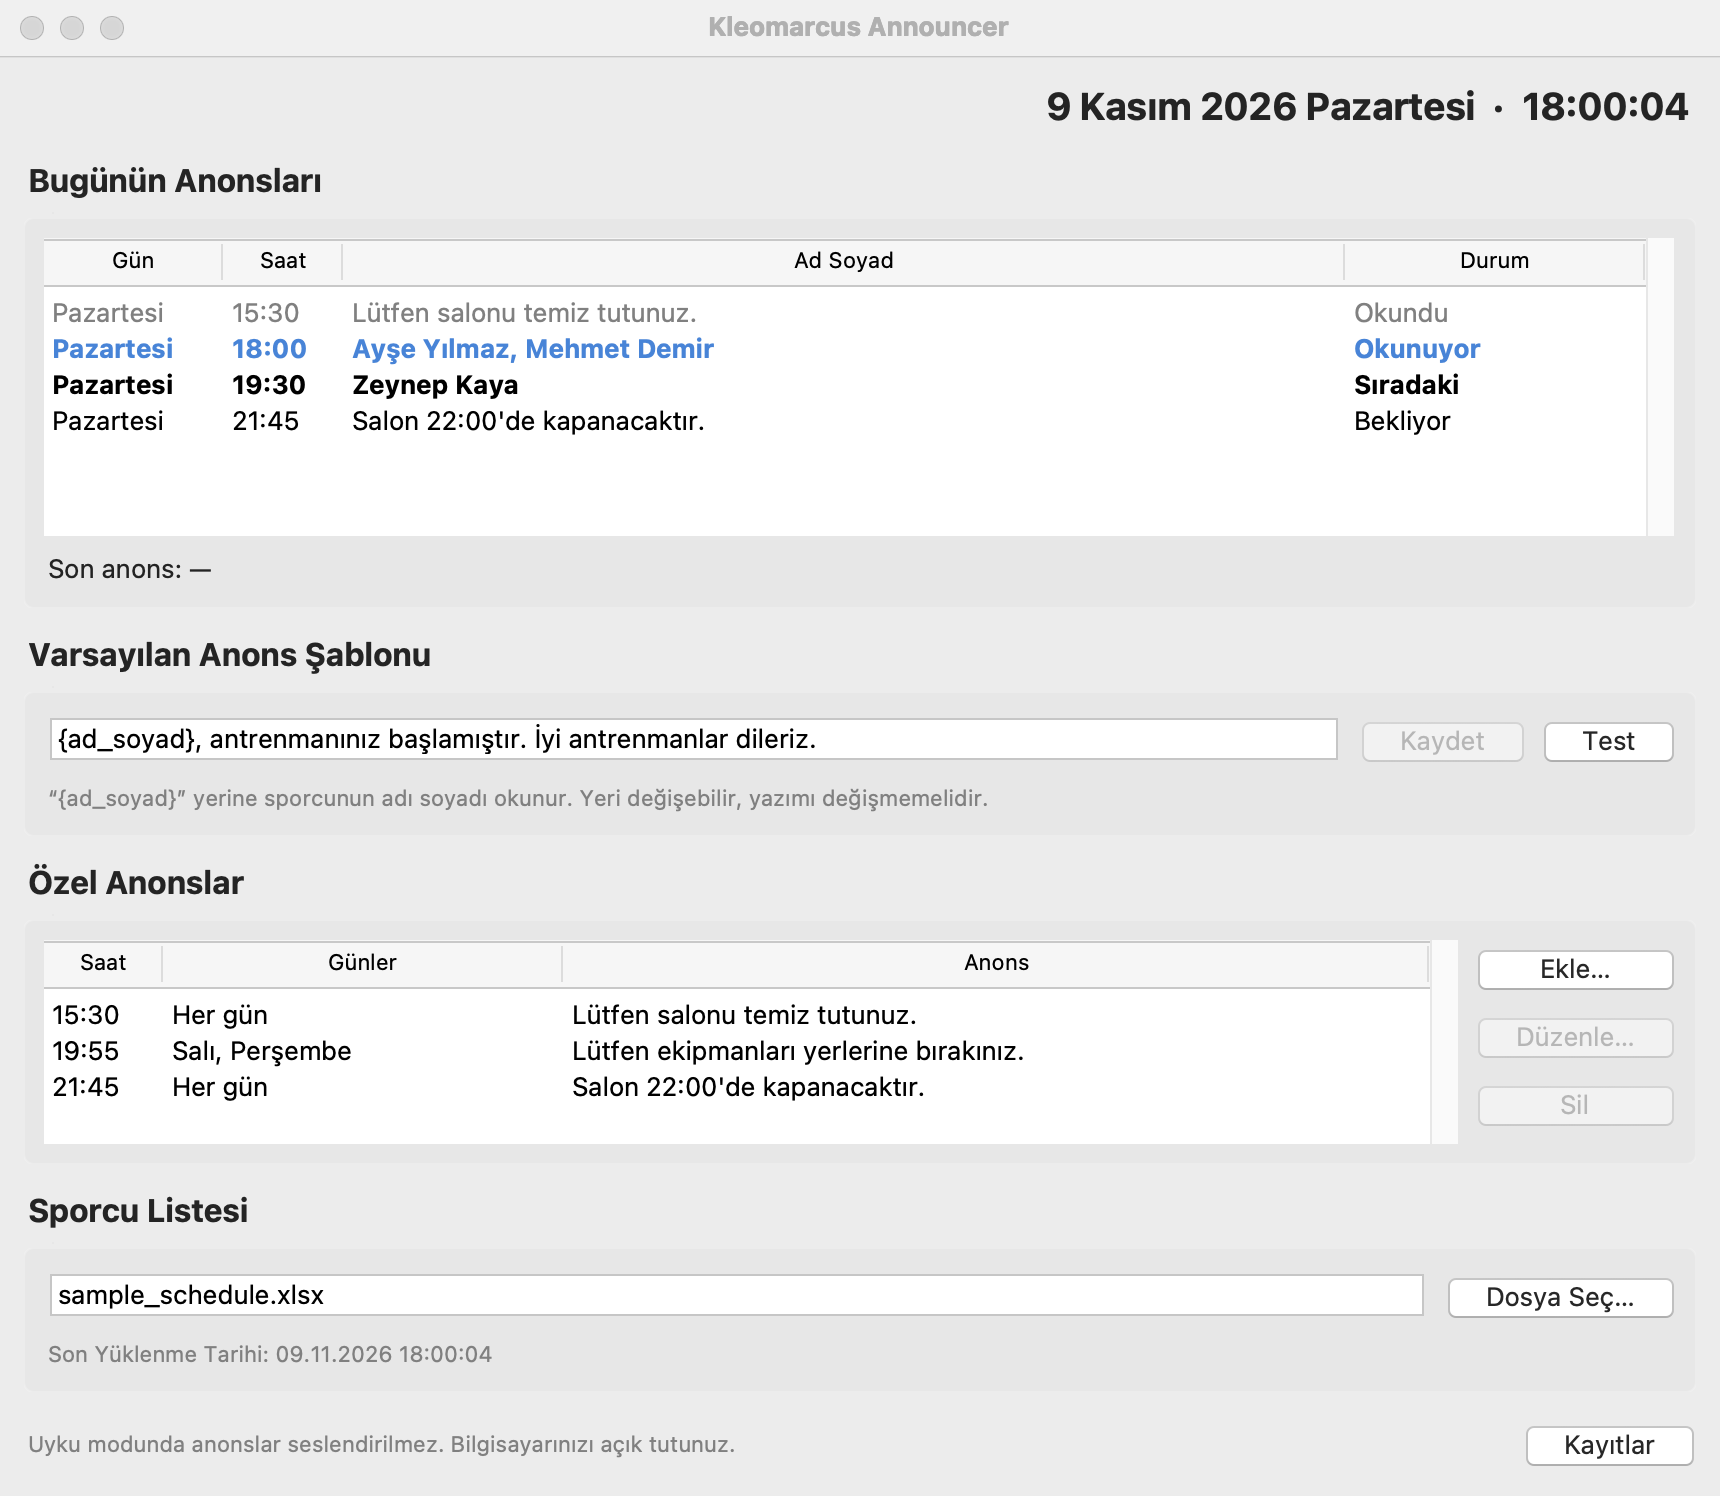
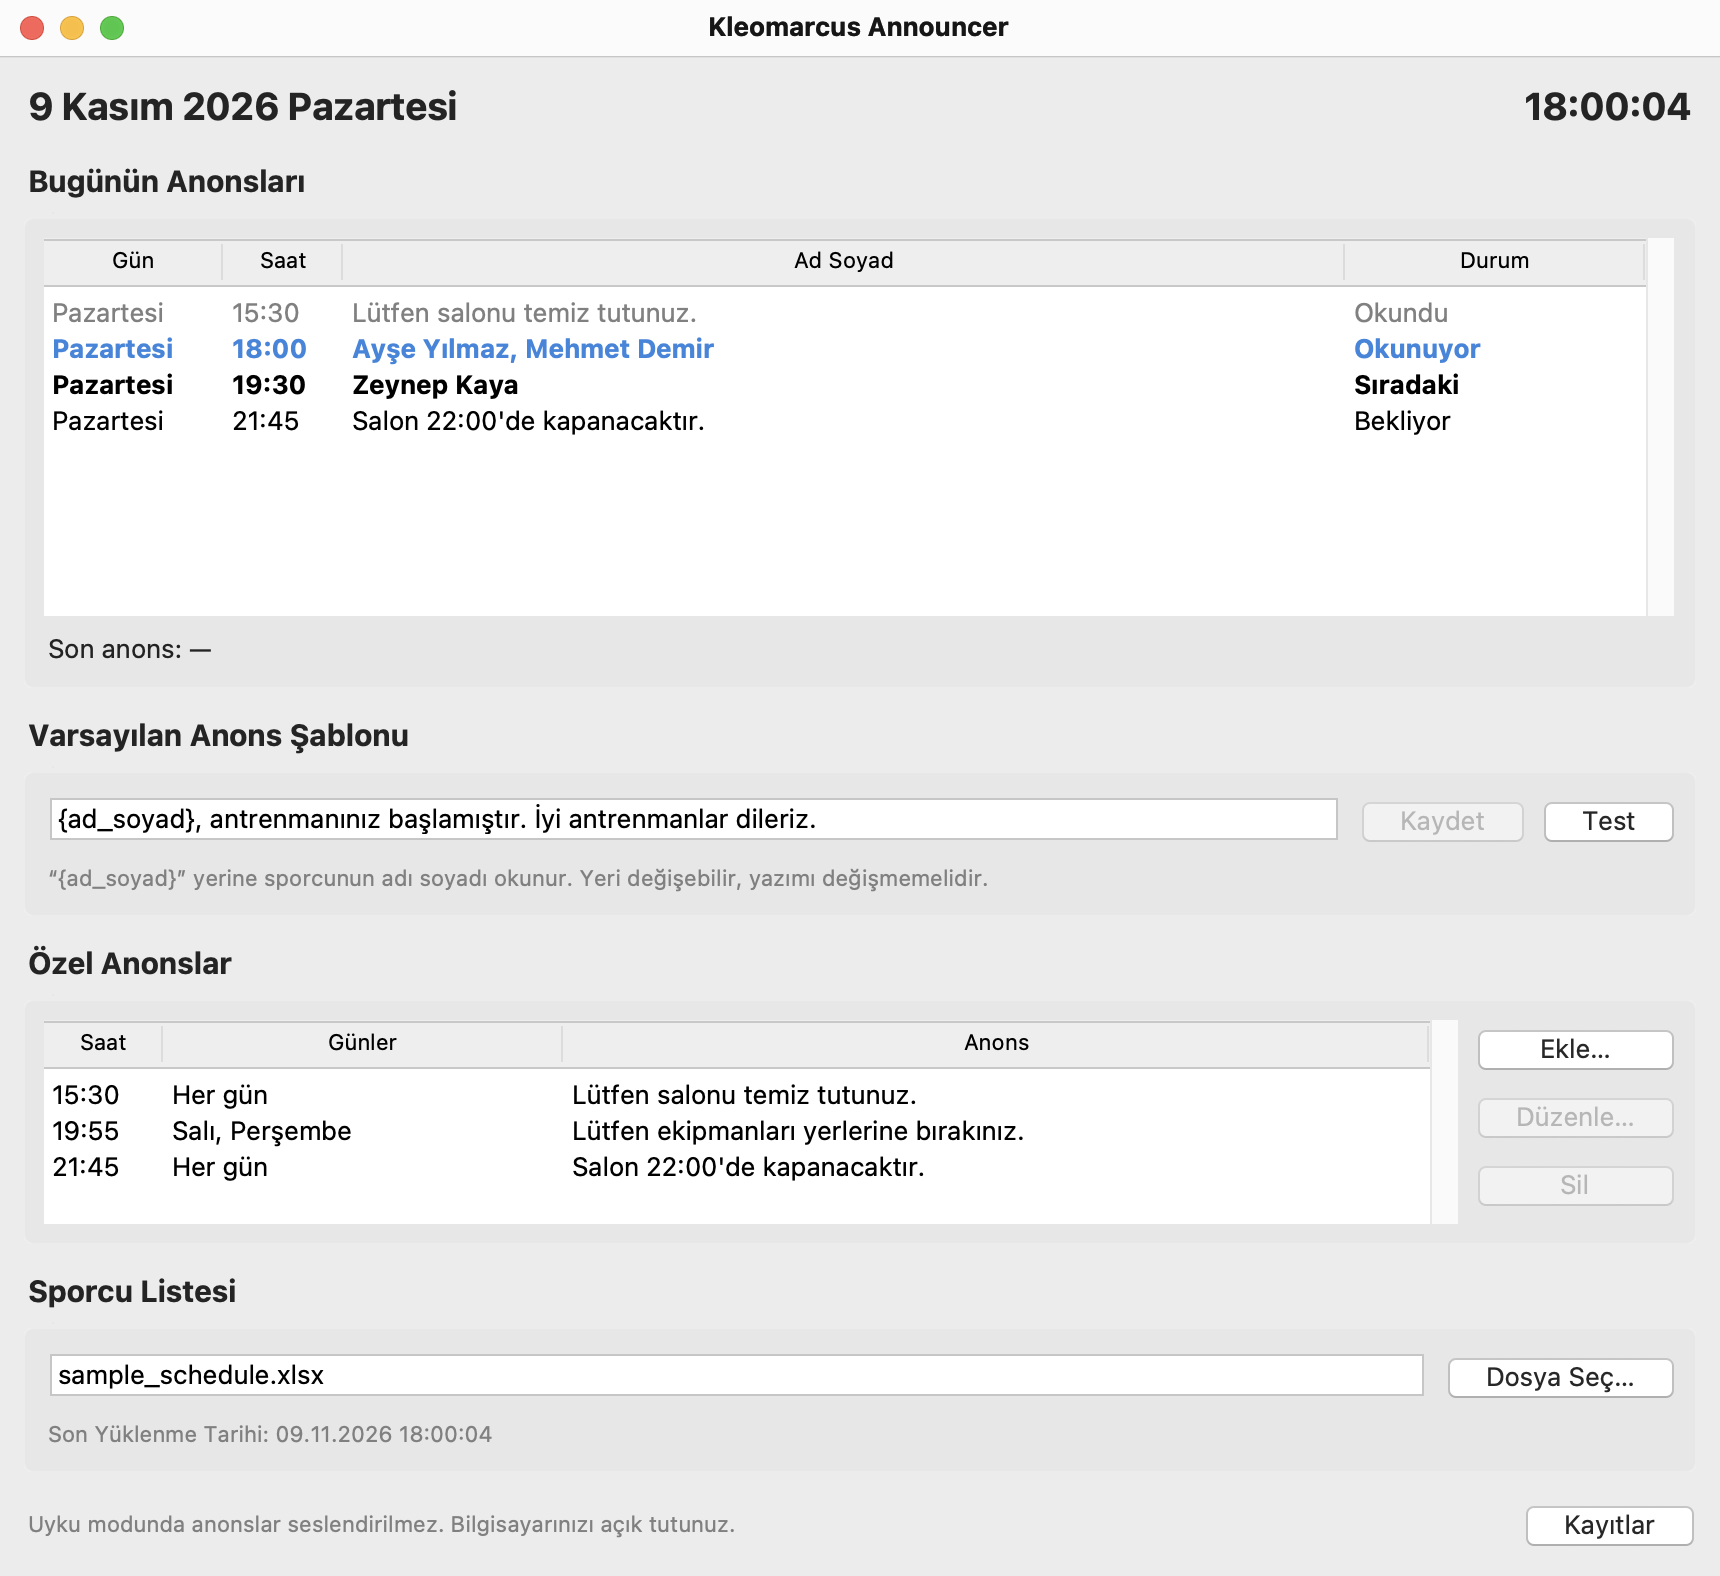
docs: describe the app in plain terms

diff --git a/src/announcer/__init__.py b/src/announcer/__init__.py
@@ -1,4 +1,4 @@
-"""Kleomarcus Announcer: calls every athlete by name, right on time."""
+"""Kleomarcus Announcer: scheduled voice announcements for a sports club lobby."""
 
 # Names the per-user folders that hold the app's files.
 APP_NAME = "Kleomarcus Announcer"

diff --git a/README.md b/README.md
@@ -4,7 +4,7 @@
 
 <h1 align="center">Kleomarcus Announcer</h1>
 
-<p align="center"><strong>Calls every athlete by name, right on time.</strong></p>
+<p align="center">Scheduled voice announcements for a sports club lobby.</p>
 
 <p align="center">
   <a href="https://github.com/sametpolat7/kleomarcus-announcer/actions/workflows/ci.yml"><img src="https://github.com/sametpolat7/kleomarcus-announcer/actions/workflows/ci.yml/badge.svg?branch=main" alt="CI"></a>
@@ -24,19 +24,19 @@ and calls each athlete by name through the computer's speakers.
 
 ## Features
 
-- **Schedule from Excel.** One row per session. Save the file and the app
-  picks up the change by itself.
-- **A natural Turkish voice.** Each sentence is generated once, stored on the
-  computer and played from there, so a lost connection does not silence a
-  known schedule.
+- **Schedule from Excel.** One row per session. A saved file is read again
+  automatically.
+- **Turkish text-to-speech.** Each sentence is generated once, stored on the
+  computer and played from there, so stored announcements play without a
+  connection.
 - **Custom announcements.** Free text at a fixed time, every day or on chosen
   weekdays, such as a closing reminder.
-- **Today at a glance.** Every announcement of the day with its status:
-  waiting, next, playing, played or skipped, and why.
-- **On time or not at all.** Nothing is played late after a restart or a
-  sleep; what was missed is shown instead.
-- **Made for a front desk.** One window with a Turkish interface, a test
-  button, a warning for every problem and a log file.
+- **Today's announcements.** A table of the day's announcements with the
+  status of each: waiting, next, playing, played or skipped, and why.
+- **No late announcements.** An announcement missed during a restart or a
+  sleep is not played afterwards; it is shown as skipped.
+- **Turkish interface.** One window with a test button, warnings for problems
+  and a log file.
 
 ## Getting started
 
